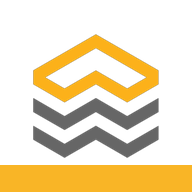
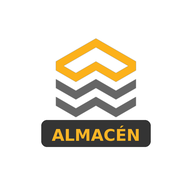
Dos apps instalables a la vez: SOLERA (index.html, partes y almacén) y SOLERA Almacén (almacen/)
- manifest.json: id y ámbito index.html, para no solaparse con almacen/
- Icono de SOLERA Almacén: logo SOLERA con etiqueta ALMACÉN (dentro de la zona segura de Android)

Claude-Session: https://claude.ai/code/session_01Ws3c47fMWwNAuXU4jmU8Up

diff --git a/index.html b/index.html
@@ -8,6 +8,8 @@
 <link rel="preconnect" href="https://fonts.googleapis.com">
 <link href="https://fonts.googleapis.com/css2?family=Prompt:wght@400;500;600;700&family=Source+Sans+3:wght@400;600&display=swap" rel="stylesheet">
 <script>
+// la app SOLERA tiene como ámbito index.html (así no se mezcla con "SOLERA Almacén", que vive en almacen/)
+if (/\/$/.test(location.pathname)) location.replace('index.html' + location.search);
 // ?modo=almacen (acceso directo "SOLERA Almacén", almacen.html): misma app, arranca en Almacén y sin la pestaña Parte
 var MODO_ALMACEN = /[?&]modo=almacen(&|$)/.test(location.search);
 if (MODO_ALMACEN) {

diff --git a/sw.js b/sw.js
@@ -1,5 +1,5 @@
 // Service worker APP SOLERA — guarda la app en el móvil para que abra sin cobertura
-var CACHE = 'solera-v4';
+var CACHE = 'solera-v5';
 var FICHEROS = ['./', './index.html', './config.js', './manifest.json', './icon-192.png', './icon-512.png',
   './almacen.html', './almacen/', './manifest-almacen.json', './icon-almacen-192.png', './icon-almacen-512.png'];
 
